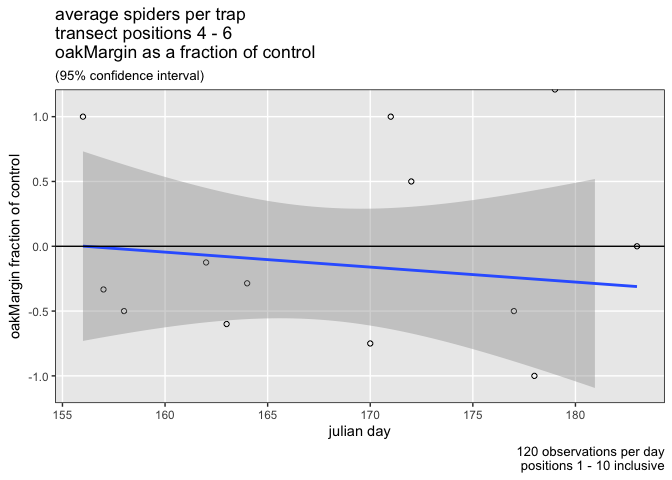
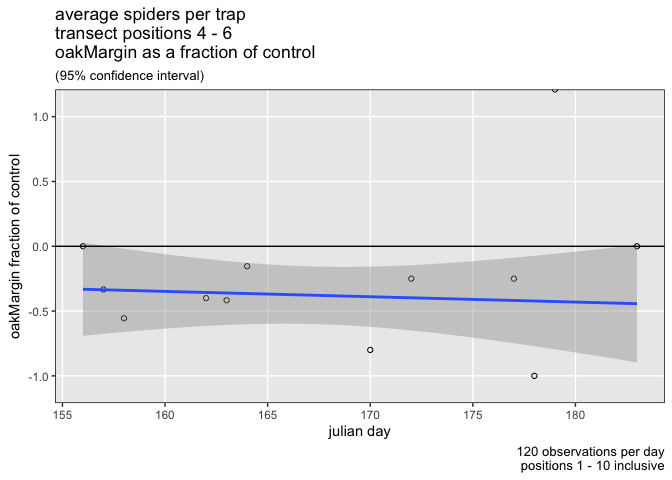
compareTransect() filter(between(position, 3, 7))

diff --git a/ampelos.md b/ampelos.md
@@ -18,7 +18,9 @@ g <- compareTransect()
 
 ![](ampelos_files/figure-markdown_github/unnamed-chunk-2-1.png)
 
-    ## Warning: Removed 1 rows containing non-finite values (stat_smooth).
+    ## Warning: Removed 2 rows containing non-finite values (stat_smooth).
+
+    ## Warning: Removed 1 rows containing missing values (geom_point).
 
 ![](ampelos_files/figure-markdown_github/unnamed-chunk-2-2.png)
 
@@ -30,7 +32,9 @@ g <- compareTransect()
 
     ## Warning: Removed 3 rows containing missing values (geom_point).
 
-    ## Warning: Removed 1 rows containing non-finite values (stat_smooth).
+    ## Warning: Removed 2 rows containing non-finite values (stat_smooth).
+
+    ## Warning: Removed 1 rows containing missing values (geom_point).
 
     ## Warning: Removed 1 rows containing non-finite values (stat_smooth).
 
